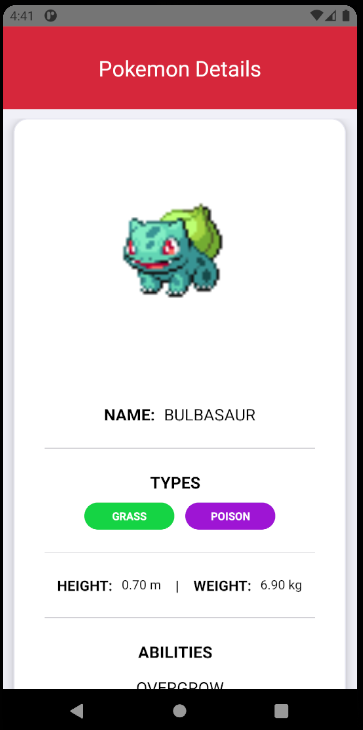
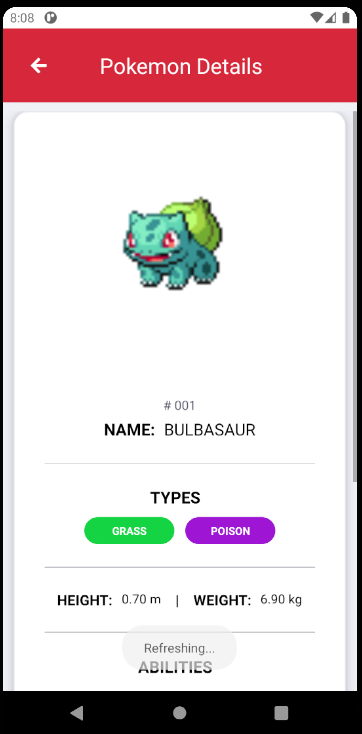
Adding back button to detail screen and pokemon ids to list and detail screens.

diff --git a/src/components/PageHeader/index.tsx b/src/components/PageHeader/index.tsx
@@ -1,10 +1,12 @@
 import React, { ReactNode } from 'react';
-import { View, Image, Text } from 'react-native';
+import { View, Text, Image } from 'react-native';
 import { BorderlessButton } from 'react-native-gesture-handler';
 
 import { useNavigation } from '@react-navigation/native';
 
 import styles from './styles';
+
+import backButtonIcon from '../../../assets/icons/arrow-left-solid.png';
 
 interface PageHeaderProps {
     title: string;
@@ -19,11 +21,16 @@ const PageHeader: React.FC<PageHeaderProps> = ({ title, headerRight, showBackBut
         navigate('PokeList');
     }
 
+    if (title != "Pokedex") {
+        // enter if isn't home screen
+        showBackButton = true;
+    }
+    
     return (
         <View style={styles.container}>
             <View style={styles.topBar}>
-                {showBackButton && (<BorderlessButton onPress={handleGoBack}>
-                    <Text>Voltar</Text>
+                {showBackButton && (<BorderlessButton style={styles.backButton} onPress={handleGoBack}>
+                    <Image style={styles.backButtonIcon} source={backButtonIcon} resizeMode='contain' />
                 </BorderlessButton>)}
             </View>
 

diff --git a/src/components/PageHeader/styles.ts b/src/components/PageHeader/styles.ts
@@ -2,18 +2,33 @@ import { StyleSheet } from 'react-native';
 
 const styles = StyleSheet.create({
     container: {
-        padding: 30,
+        padding: 25,
         backgroundColor: '#d6283a',
+        flexDirection: 'row',
+    },
+
+    backButton: {
+        width: 30,
+        height: 30,
+        alignItems: 'center',
+        justifyContent: 'center'
+    },
+
+    backButtonIcon: {
+        width: 20,
+        height: 20
     },
 
     topBar: {
         flexDirection: 'row',
         alignItems: 'center',
-        justifyContent: 'space-between'
+        justifyContent: 'space-between',
+        flex: 1
     },
 
     header: {
-      alignItems: 'center'
+      alignItems: 'center',
+      flex: 100
     },
 
     title: {

diff --git a/src/pages/PokeDetails/index.tsx b/src/pages/PokeDetails/index.tsx
@@ -35,7 +35,12 @@ function PokeDetails({ route }: any) {
                   style={styles.image}
               />
 
-              <View style={[ styles.infoContainer, { flexDirection: 'row' } ]}>
+
+              <View style={[ styles.infoContainer, { marginBottom: 0 } ]}>
+                <Text style={styles.id}># {pokemon.id?.padStart(3, "0")}</Text>
+              </View>
+
+              <View style={[ styles.infoContainer, { flexDirection: 'row', marginTop: 5} ]}>
                 <Text style={styles.sectionTitle}>NAME:</Text>
                 <Text style={styles.name}>{pokemon.name.toUpperCase()}</Text>
               </View>

diff --git a/src/components/PokemonItem/index.tsx b/src/components/PokemonItem/index.tsx
@@ -30,7 +30,7 @@ const PokemonItem: React.FC<PokemonItemProps> = ({ pokemon, navigation }) => {
         >
             
             <View>
-                <Text style={styles.id}># {pokemon.id}</Text>
+                <Text style={styles.id}># {pokemon.id?.padStart(3, "0")}</Text>
             </View>
 
             <View>

diff --git a/src/pages/PokeDetails/styles.ts b/src/pages/PokeDetails/styles.ts
@@ -43,6 +43,10 @@ const styles = StyleSheet.create({
         marginVertical: 15
     },
 
+    id: {
+        color: '#5d566d',
+    },
+
     sectionTitle: {
         fontSize: 18,
         fontWeight: 'bold',

diff --git a/src/components/PokemonItem/styles.ts b/src/components/PokemonItem/styles.ts
@@ -26,7 +26,6 @@ const styles = StyleSheet.create({
     id: {
         // fontFamily: 'Archivo_700Bold',
         color: '#5d566d',
-        fontSize: 14,
         paddingTop: 10,
     },
     
